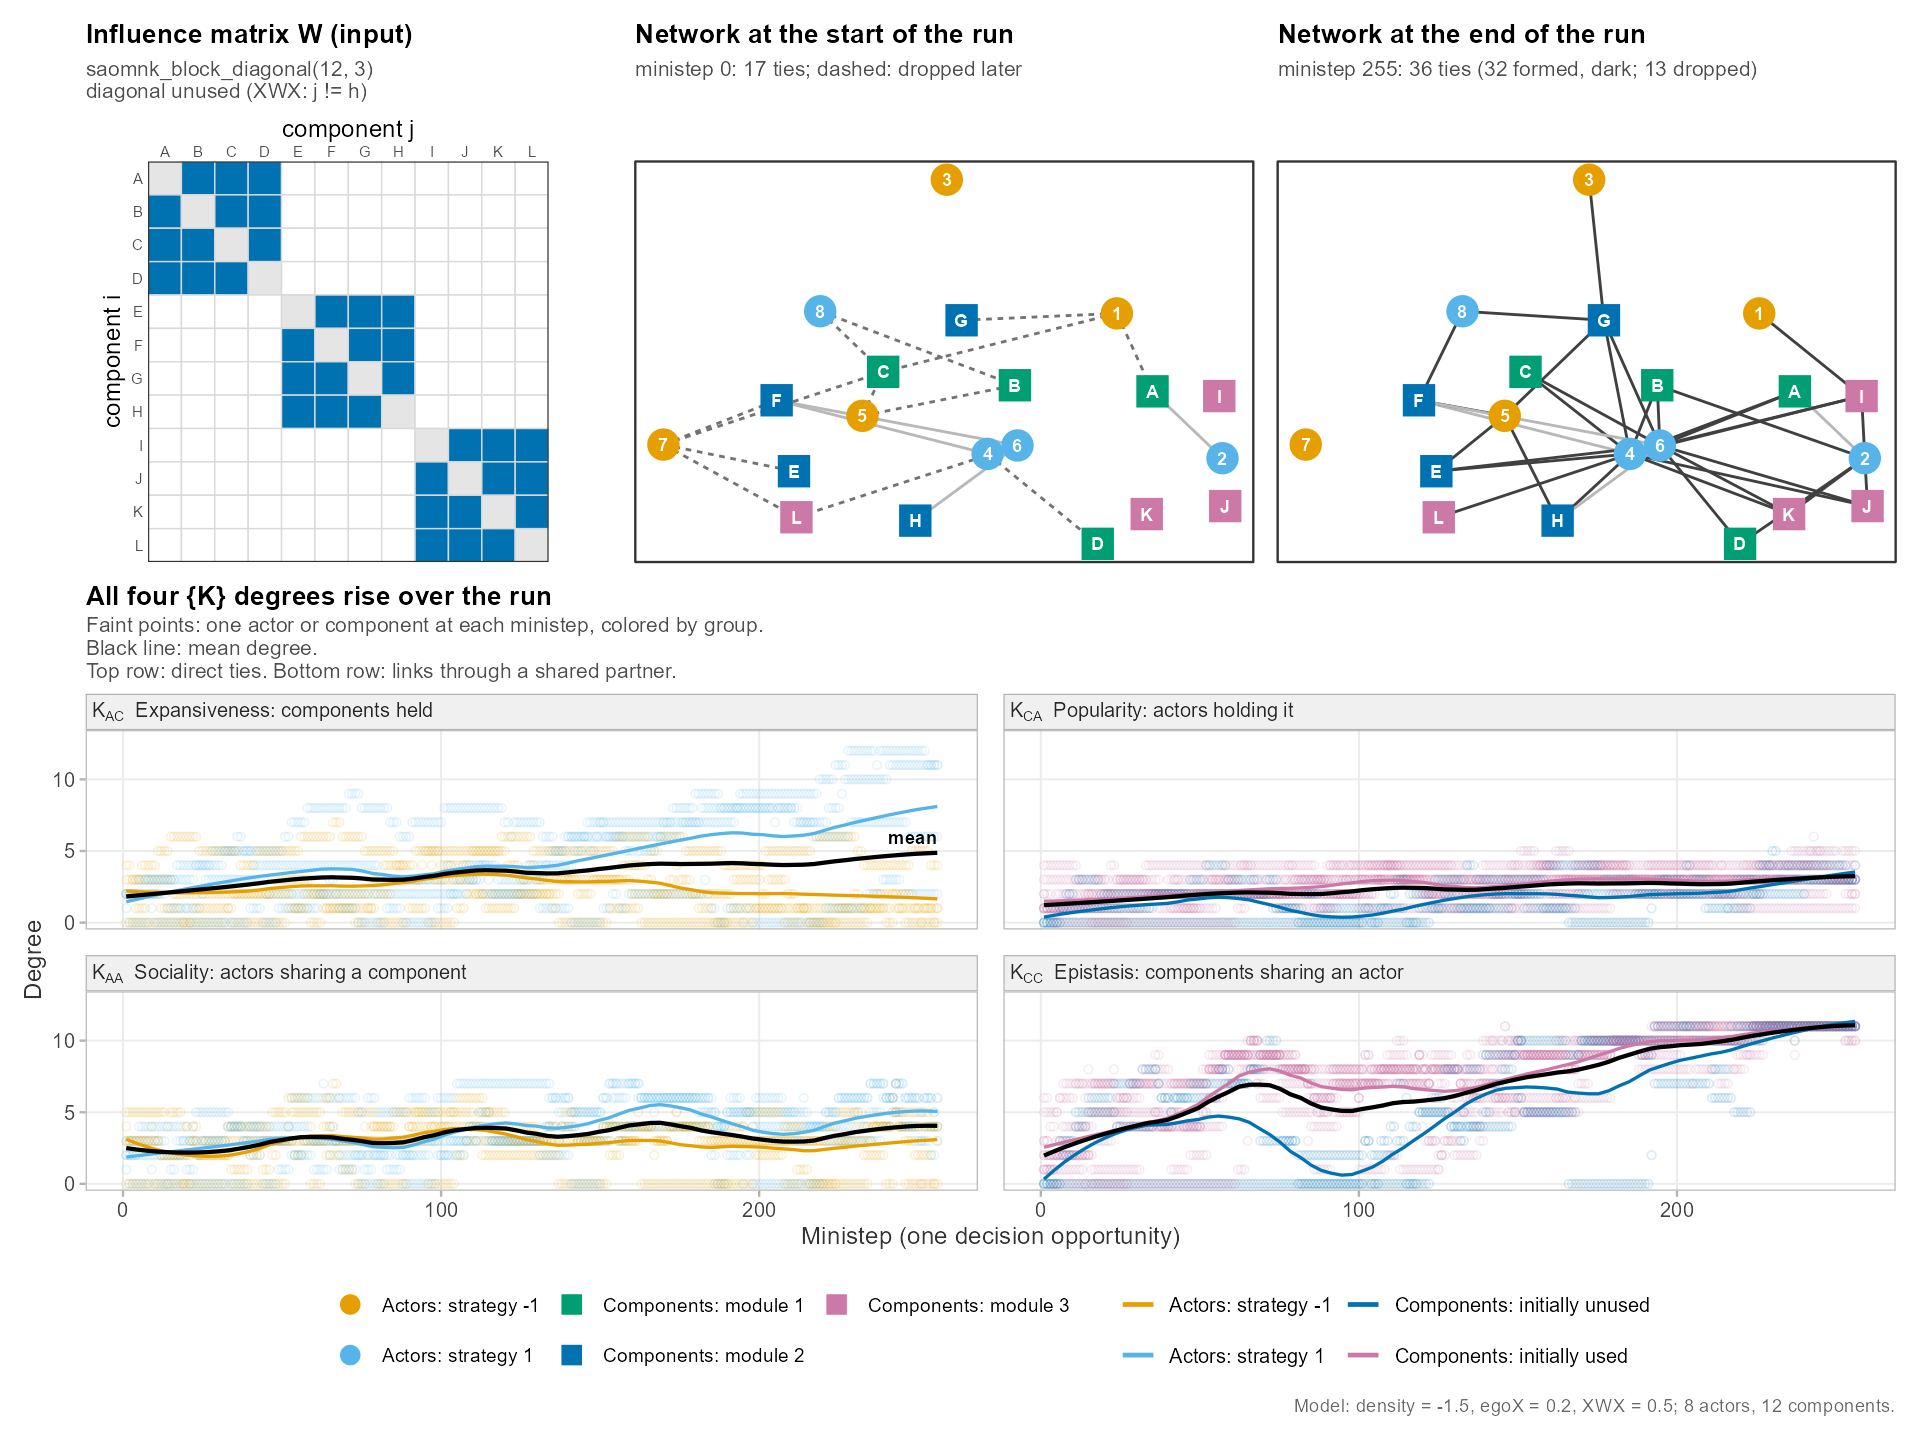
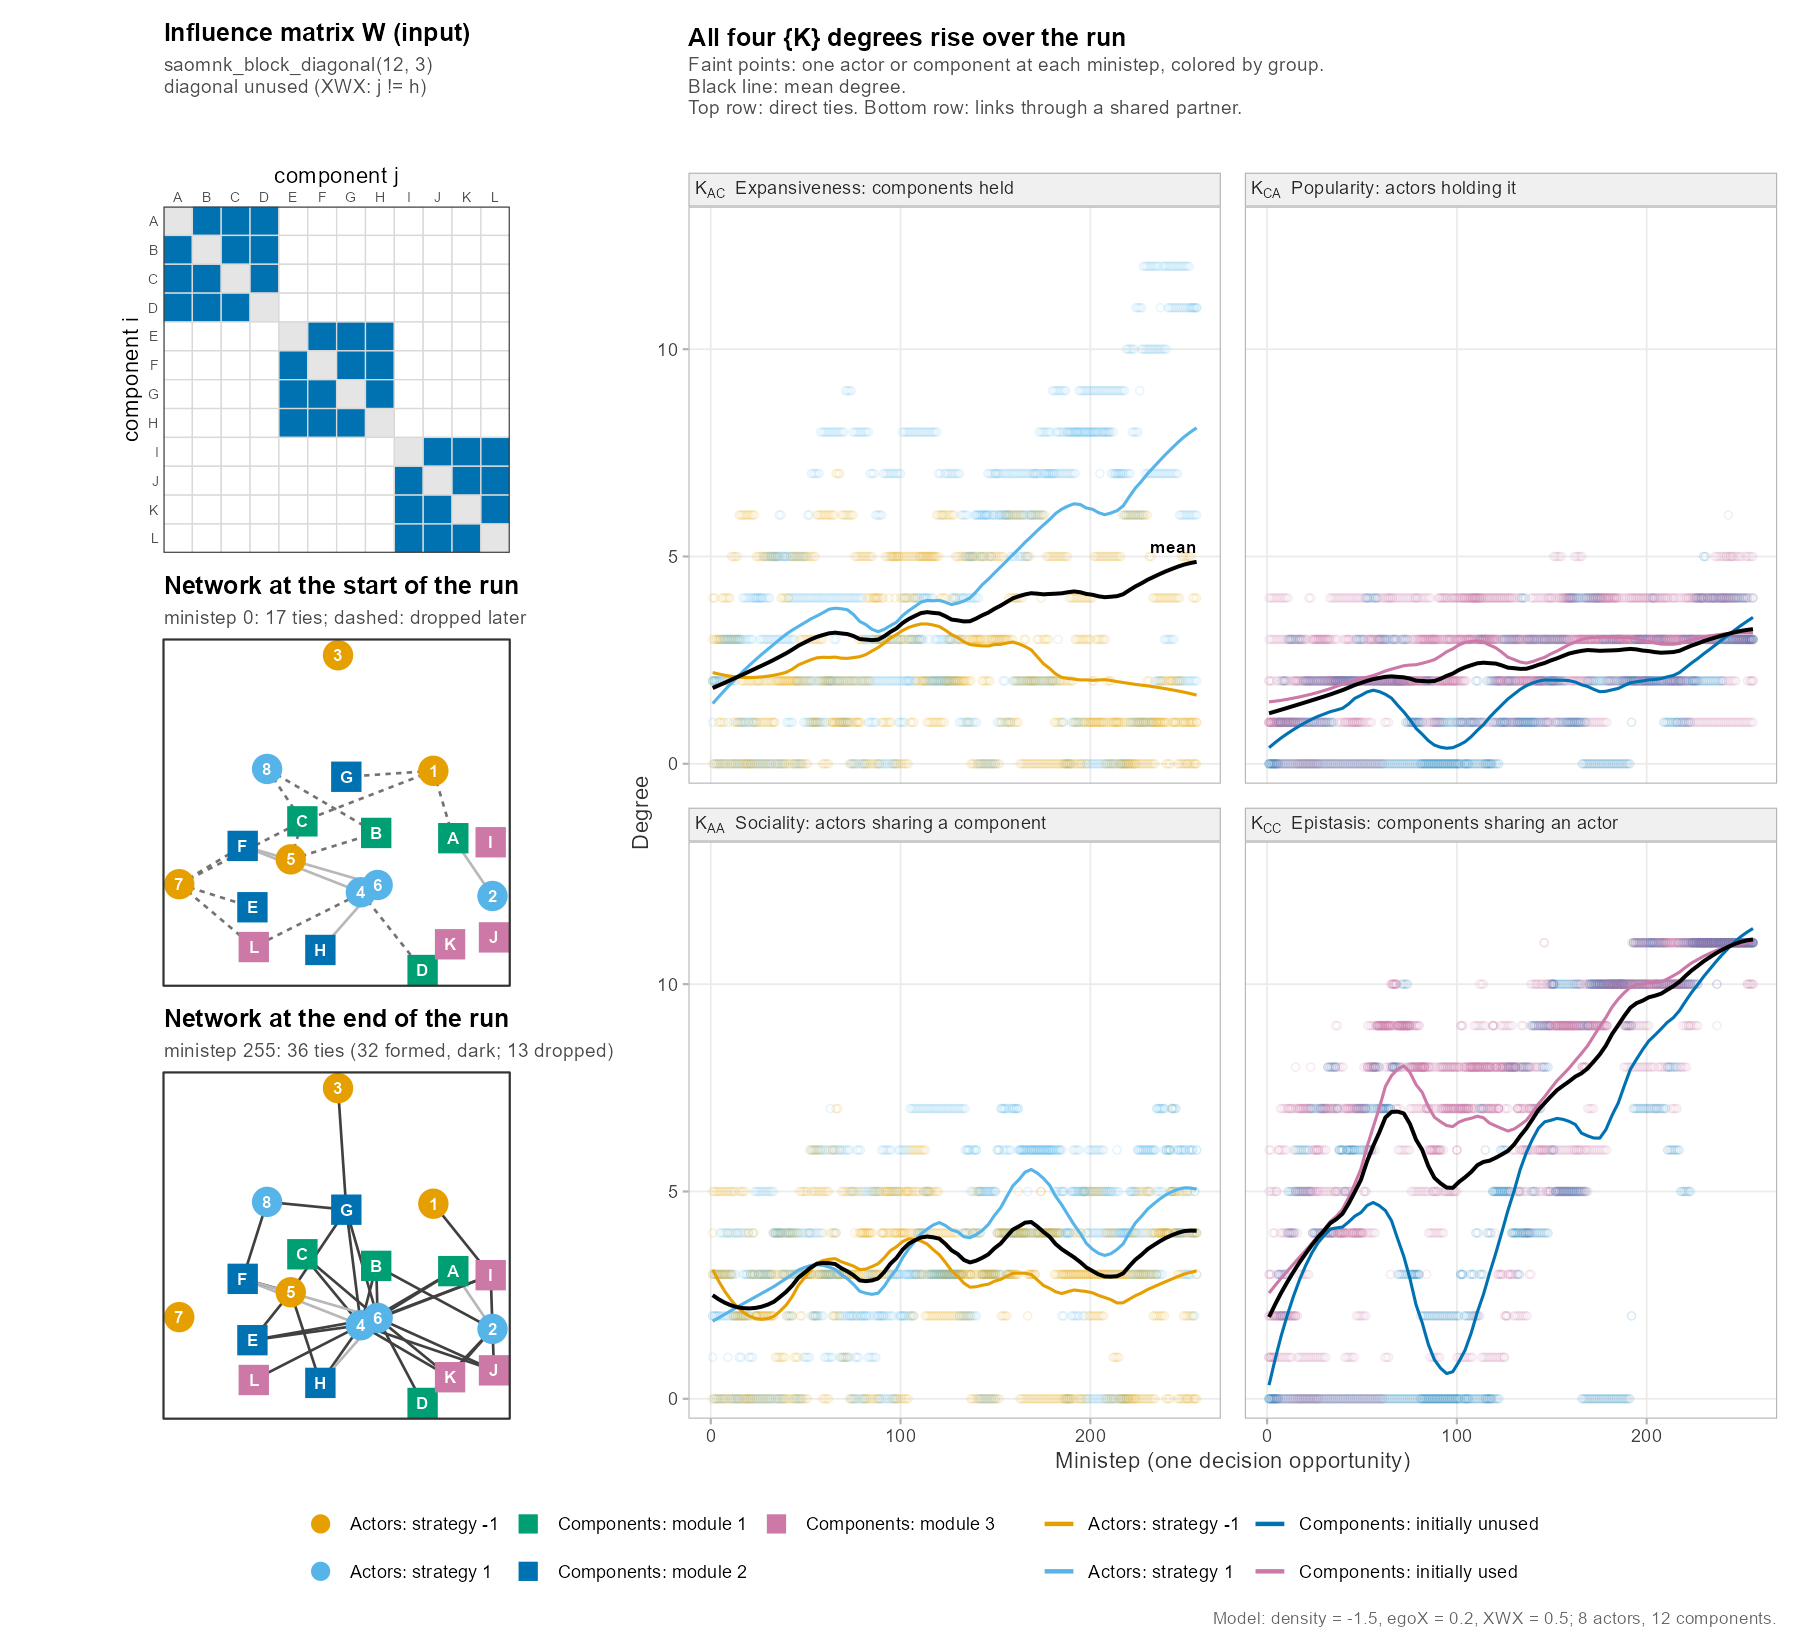
searchnet v0.12.5 release snapshot

diff --git a/README.md b/README.md
@@ -25,7 +25,7 @@ squares, colored by module). Right: the four coupled degree series
 > to be expected. The companion methods paper is under review and has
 > not yet been peer-reviewed; results should be treated accordingly.
 > For reproducibility, install a pinned tag rather than the moving branch:
-> `devtools::install_github("sdownin/searchnet@v0.12.4")`.
+> `devtools::install_github("sdownin/searchnet@v0.12.5")`.
 > **v0.8.3 and earlier:** `saomnk_model()` simulations that declared
 > `influence_weight`, `cycle4`, `XWX`, `X`, `inPopX`, `outActX` or
 > `homXOutAct` did not simulate the declared coefficient (estimation via
@@ -535,6 +535,7 @@ history jumps from v0.4.1 to v0.7.0 — NEWS.md records why.
 
 | Version | Highlights |
 |---|---|
+| **v0.12.5** | Documentation only: README hero figure re-laid out (inputs and start/end networks on the left, {K}-4 panel at full height on the right). No code change since v0.12.2. |
 | **v0.12.4** | Documentation only: withdrawn K_CC figures removed from the README. Public release of 0.12.2 (the {K} dimensions each effect reads and moves; K_AA and K_CC exclude the node) and 0.12.3 (README figures). No code change since v0.12.2. |
 | **v0.12.3** | Documentation only: README hero shows the network at the start and end of the run; architectures figure adds signed real weights beside the conventional NK pattern. No code change since v0.12.2. |
 | **v0.12.2** | The {K} dimensions each effect reads and moves (`searchnet_effect_dimensions()`, `searchnet_classify_effect()`); K_AA and K_CC exclude the node itself (reported values 1 lower for non-isolated nodes; simulations unchanged); `inPopX` fixed and pinned; crowding and complementarity labels. Suite: 65 files, 924 tests, 6893 expectations, 0 failures, 0 errors, 9 skips. |
@@ -569,7 +570,7 @@ line and are exercised by the v0.12.2 test suite.
   title  = {searchnet: Network-Embedded Search Simulation Engine},
   author = {Stephen Downing},
   year   = {2026},
-  note   = {R package version 0.12.4},
+  note   = {R package version 0.12.5},
   url    = {https://github.com/sdownin/searchnet}
 }
 ```

diff --git a/NEWS.md b/NEWS.md
@@ -1,3 +1,7 @@
+# searchnet 0.12.5
+
+Released 2026-10-08. Documentation only; no code change since 0.12.2. README hero figure: the influence matrix and the start and end networks are stacked down the left, and the {K}-4 panel takes the right two columns at full height, so the degree trajectories have about twice the vertical range.
+
 # searchnet 0.12.4
 
 Released 2026-10-08. Documentation only; no code change since 0.12.2. The README no longer quotes mean K_CC values of 13.95 / 16.40 / 20.00 under varying W (withdrawn by the 2026-10-06 audit of replayed trajectories); the architectures figure reports current values. First public release since 0.12.1, so it carries 0.12.2 and 0.12.3.
